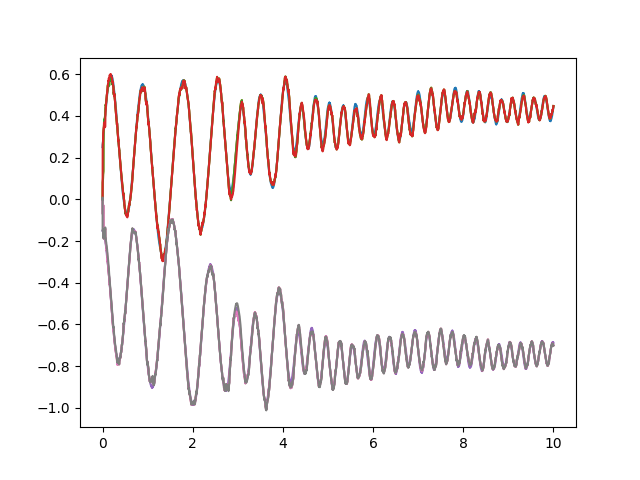
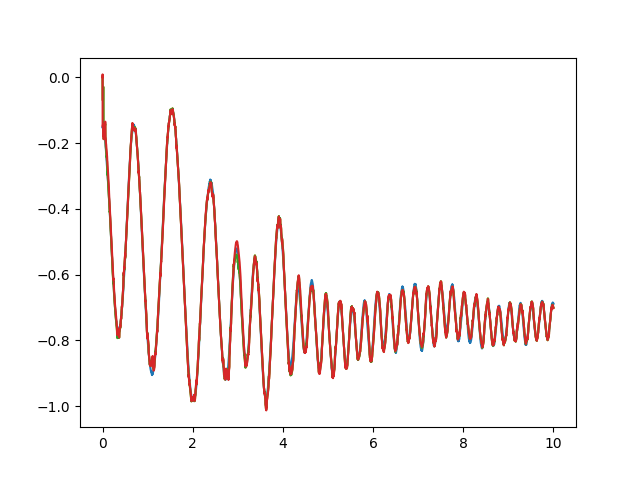
.

diff --git a/scripts/stats.py b/scripts/stats.py
@@ -74,6 +74,7 @@ def example() -> None:
     for i in range(dim_state):
         plot(i)
         plt.savefig(os.path.join("img", "example", f"estimate_{i}.png"))
+        plt.clf()
 
 
 def stats() -> None:
